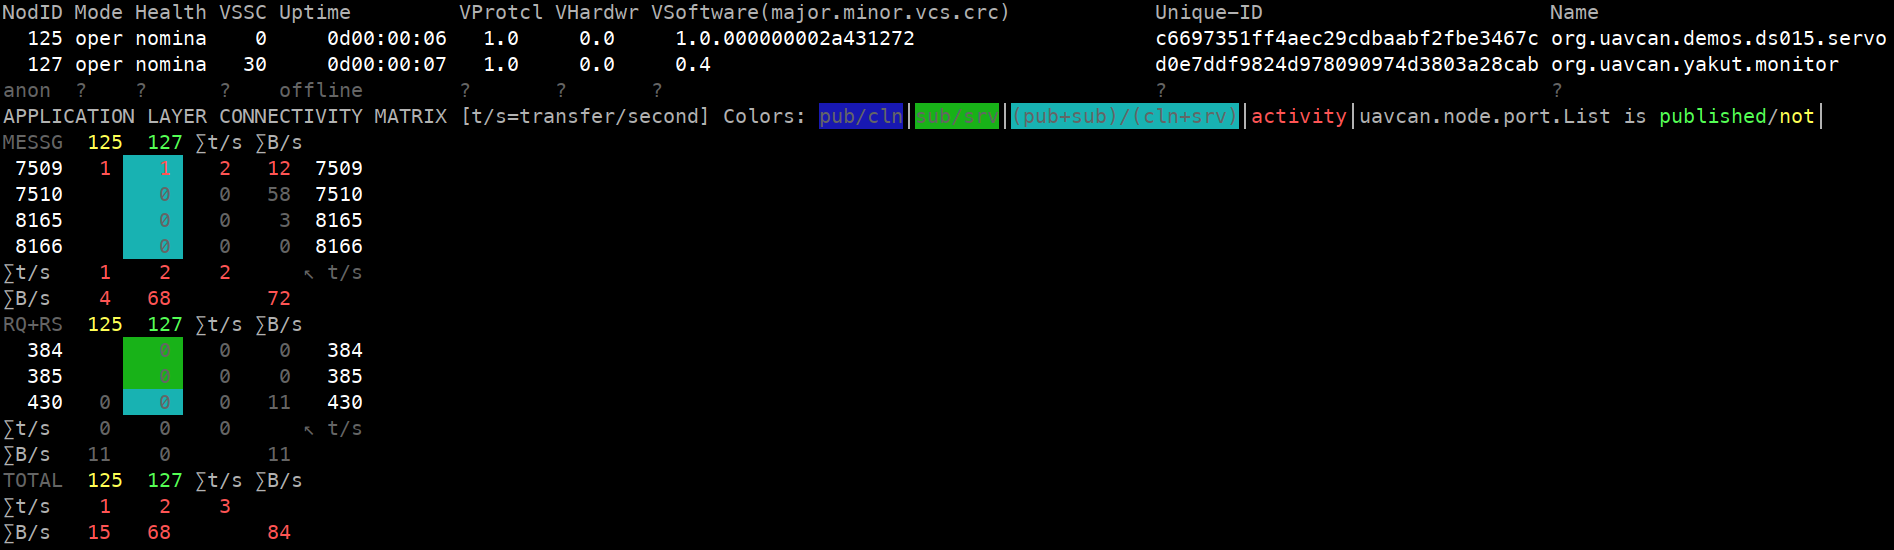
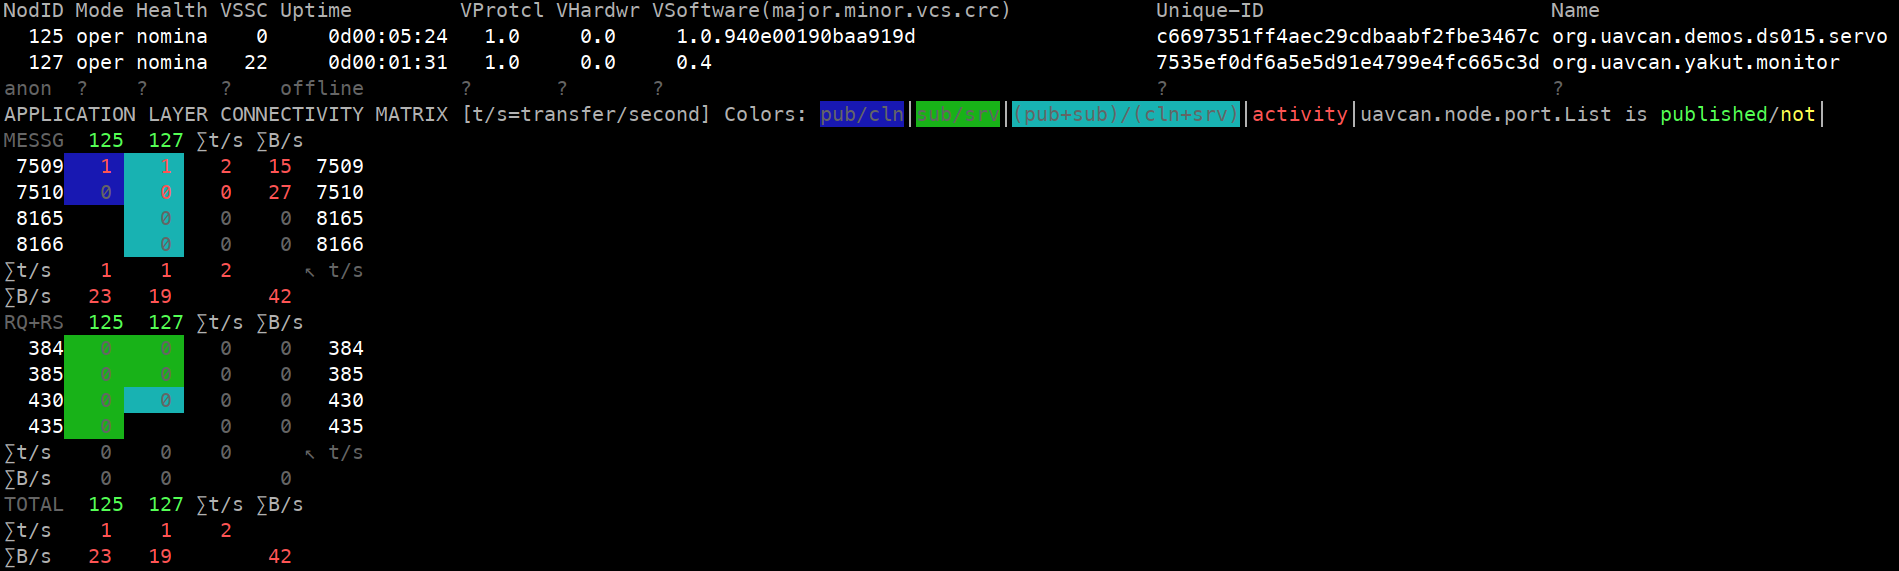
Save the allocated node-ID automatically as enabled by https://github.com/UAVCAN/public_regulated_data_types/pull/111

Changed region(s): [[0.0, 0.0, 0.9657, 0.9891], [0.5919, 0.0, 0.9968, 0.1545], [0.1246, 0.9582, 0.1558, 0.9891]]

diff --git a/ds015_servo/src/main.c b/ds015_servo/src/main.c
@@ -508,7 +508,12 @@ static void processMessagePlugAndPlayNodeIDAllocation(State* const              
     {
         printf("Got PnP node-ID allocation: %d\n", msg->node_id.value);
         state->canard.node_id = (CanardNodeID) msg->node_id.value;
-        // Note that we don't save the dynamic node-ID into the register, it is intentional per the Spec.
+        // Store the value into the non-volatile storage.
+        uavcan_register_Value_1_0 reg = {0};
+        uavcan_register_Value_1_0_select_natural16_(&reg);
+        reg.natural16.value.elements[0] = msg->node_id.value;
+        reg.natural16.value.count = 1;
+        registerWrite("uavcan.node.id", &reg);
         // We no longer need the subscriber, drop it to free up the resources (both memory and CPU time).
         (void) canardRxUnsubscribe(&state->canard,
                                    CanardTransferKindMessage,

diff --git a/ds015_servo/README.md b/ds015_servo/README.md
@@ -101,12 +101,6 @@ yakut call 125 uavcan.register.Access.1.0 "{name: {name: uavcan.pub.servo.power.
 yakut call 125 uavcan.register.Access.1.0 "{name: {name: uavcan.pub.servo.status.id},    value: {natural16: {value: 103}}}"
 ```
 
-Also, set up a static node-ID (let's say, 77) to remove the dependency on the PnP node-ID allocator:
-
-```bash
-yakut call 125 uavcan.register.Access.1.0 "{name: {name: uavcan.node.id}, value: {natural16: {value: 77}}}"
-```
-
 The node is configured now, but we need to restart it before the configuration parameter changes take effect:
 
 ```bash
@@ -144,7 +138,7 @@ You can erase the configuration and go back to factory defaults as follows:
 ```bash
 export UAVCAN__CAN__IFACE="socketcan:vcan0"
 export UAVCAN__NODE__ID=126                 # This node-ID is for Yakut.
-yakut call 77 uavcan.node.ExecuteCommand.1.1 "command: 65532"
+yakut call 125 uavcan.node.ExecuteCommand.1.1 "command: 65532"
 ```
 
 
